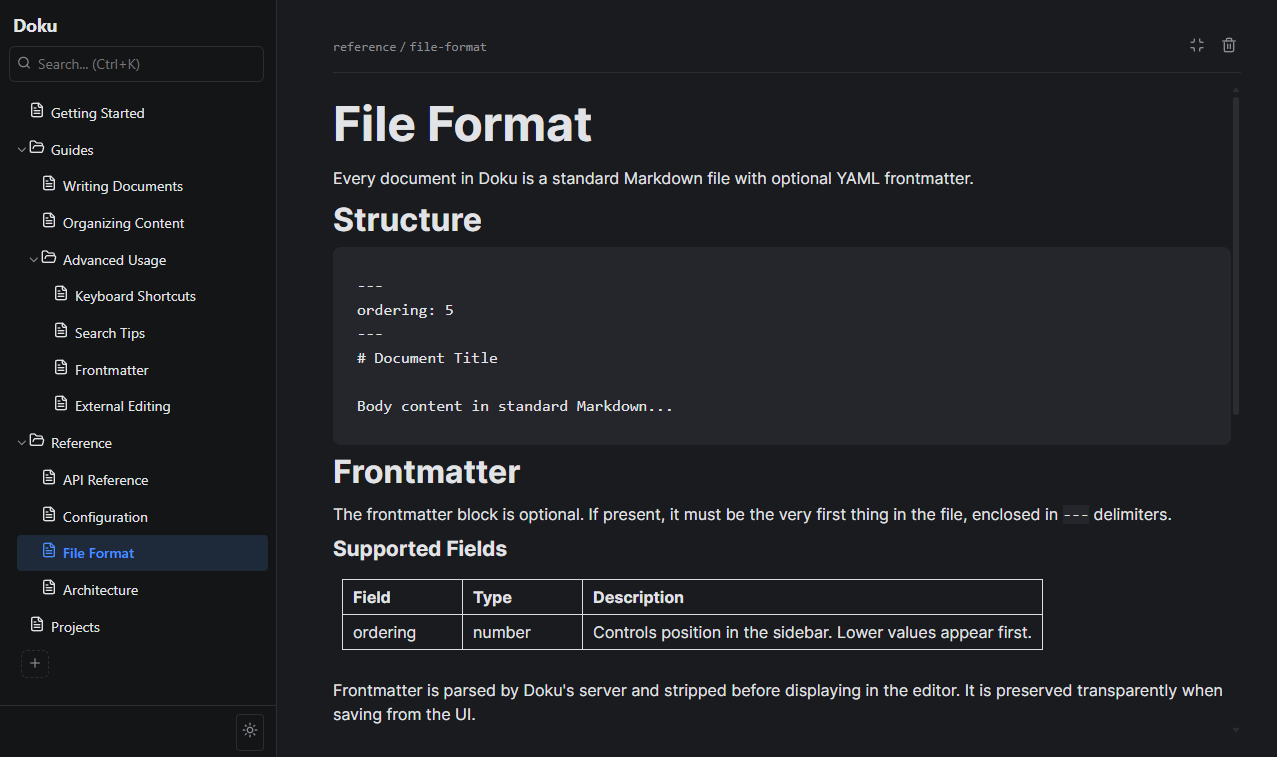
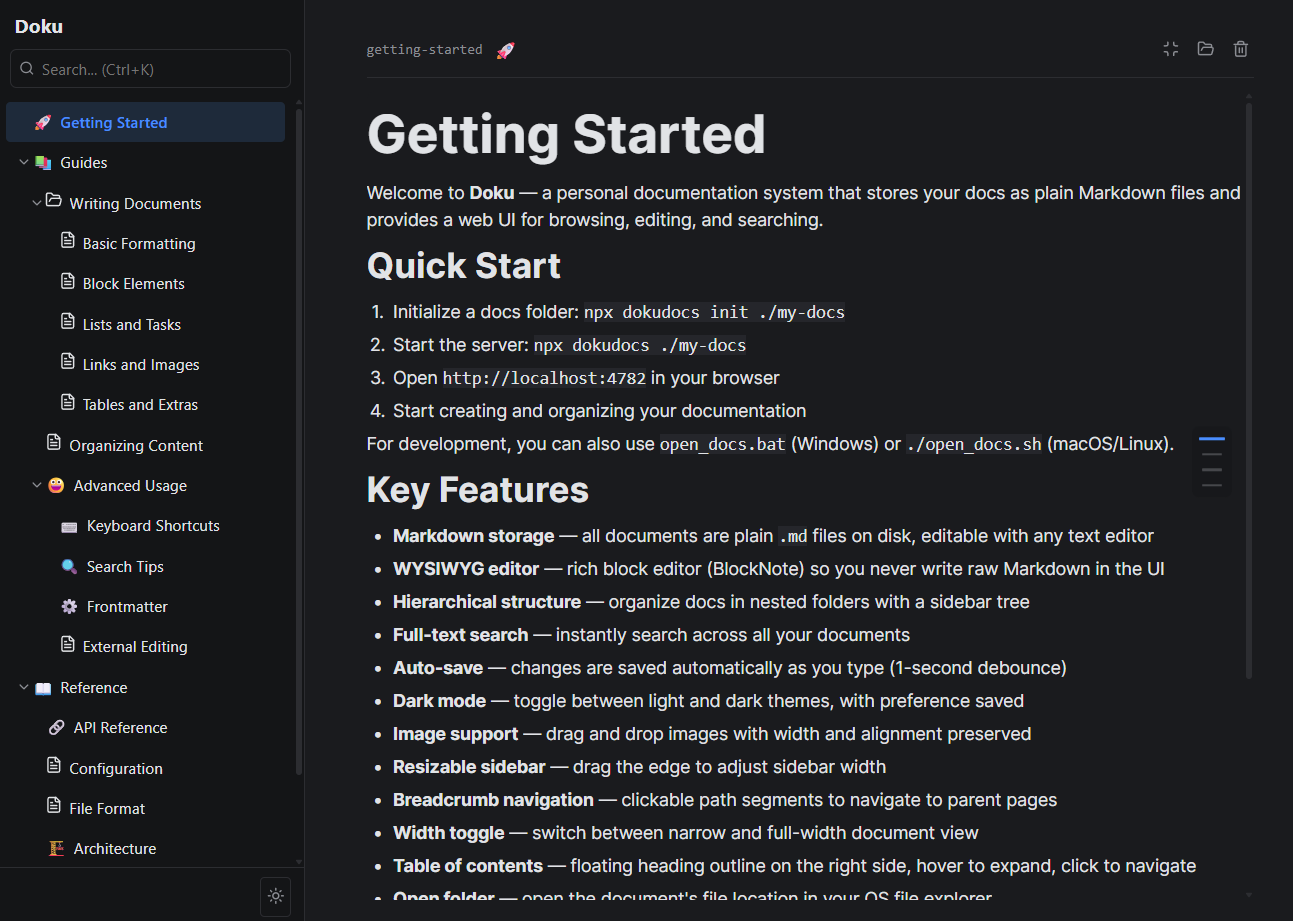
Readme

diff --git a/docs/reference/configuration.md b/docs/reference/configuration.md
@@ -30,20 +30,25 @@ Place a `config.json` file inside your docs folder to configure project-level se
 
 ### projectName
 
-- **Type:** string
-- **Default:** `"Doku"`
-- **Description:** The name displayed at the top of the sidebar. Use this to label different documentation projects.
+* **Type:** string
+
+* **Default:** `"Doku"`
+
+* **Description:** The name displayed at the top of the sidebar. Use this to label different documentation projects.
 
 ### port
 
-- **Type:** number
-- **Default:** `4782`
-- **Description:** The port the backend server listens on. Can also be overridden with the `PORT` environment variable (env var takes highest priority).
+* **Type:** number
+
+* **Default:** `4782`
+
+* **Description:** The port the backend server listens on. Can also be overridden with the `PORT` environment variable (env var takes highest priority).
 
 ## Ports
 
-- **Backend (Express):** port 4782 by default. Set via `port` in config.json or the `PORT` environment variable.
-- **Dev frontend (Vite):** port 5173. The Vite dev server proxies `/api` requests to the backend.
+* **Backend (Express):** port 4782 by default. Set via `port` in config.json or the `PORT` environment variable.
+
+* **Dev frontend (Vite):** port 5173. The Vite dev server proxies `/api` requests to the backend.
 
 ## Production vs Development
 

diff --git a/docs/reference/file-format.md b/docs/reference/file-format.md
@@ -22,9 +22,9 @@ The frontmatter block is optional. If present, it must be the very first thing i
 
 ### Supported Fields
 
-| Field    | Type   | Description                                                  |
-| -------- | ------ | ------------------------------------------------------------ |
-| ordering | number | Controls position in the sidebar. Lower values appear first. |
+| Field    | Type   | Description                                                                                                                                          |
+| -------- | ------ | ---------------------------------------------------------------------------------------------------------------------------------------------------- |
+| ordering | number | Controls position in the sidebar. Lower values appear first.                                                                                         |
 | icon     | string | An emoji displayed instead of the default file/folder icon in the sidebar. Can be set via the emoji picker in the UI or directly in the frontmatter. |
 
 Frontmatter is parsed by Doku's server and stripped before displaying in the editor. It is preserved transparently when saving from the UI.

diff --git a/README.md b/README.md
@@ -107,14 +107,19 @@ Documents support optional YAML frontmatter for metadata:
 ```markdown
 ---
 ordering: 1
+icon: 🚀
 ---
 # My Document
 
 Content here...
 ```
 
-- `ordering` — controls position in the sidebar (lower values first, unordered items last)
-- Frontmatter is completely hidden in the editor UI and preserved on save
+| Field | Type | Description |
+|-------|------|-------------|
+| ordering | number | Controls position in the sidebar (lower values first, unordered items last) |
+| icon | string | An emoji shown instead of the default file/folder icon in the sidebar. Can be set via the emoji picker in the toolbar or directly in the file. |
+
+Frontmatter is completely hidden in the editor UI and preserved on save.
 
 ## Tech Stack
 
